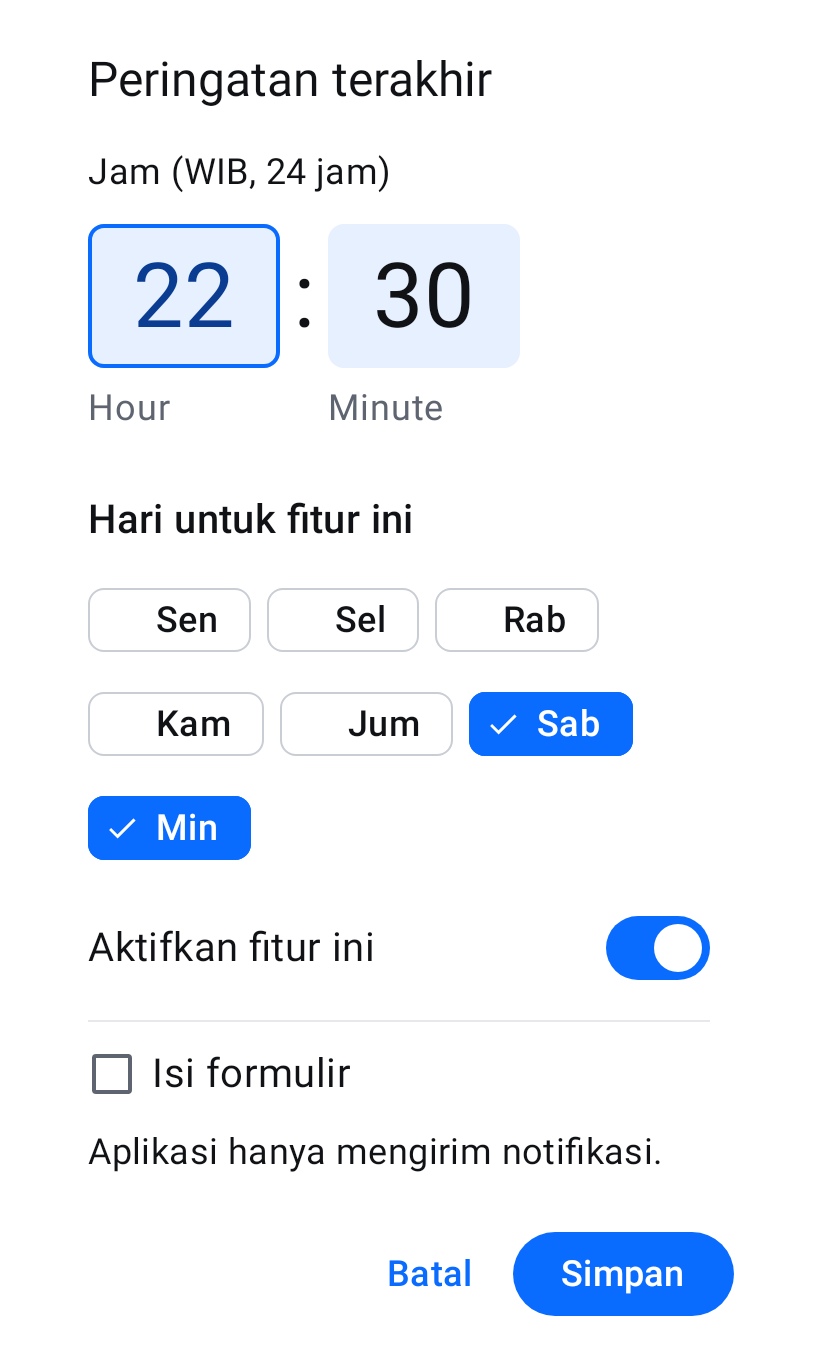
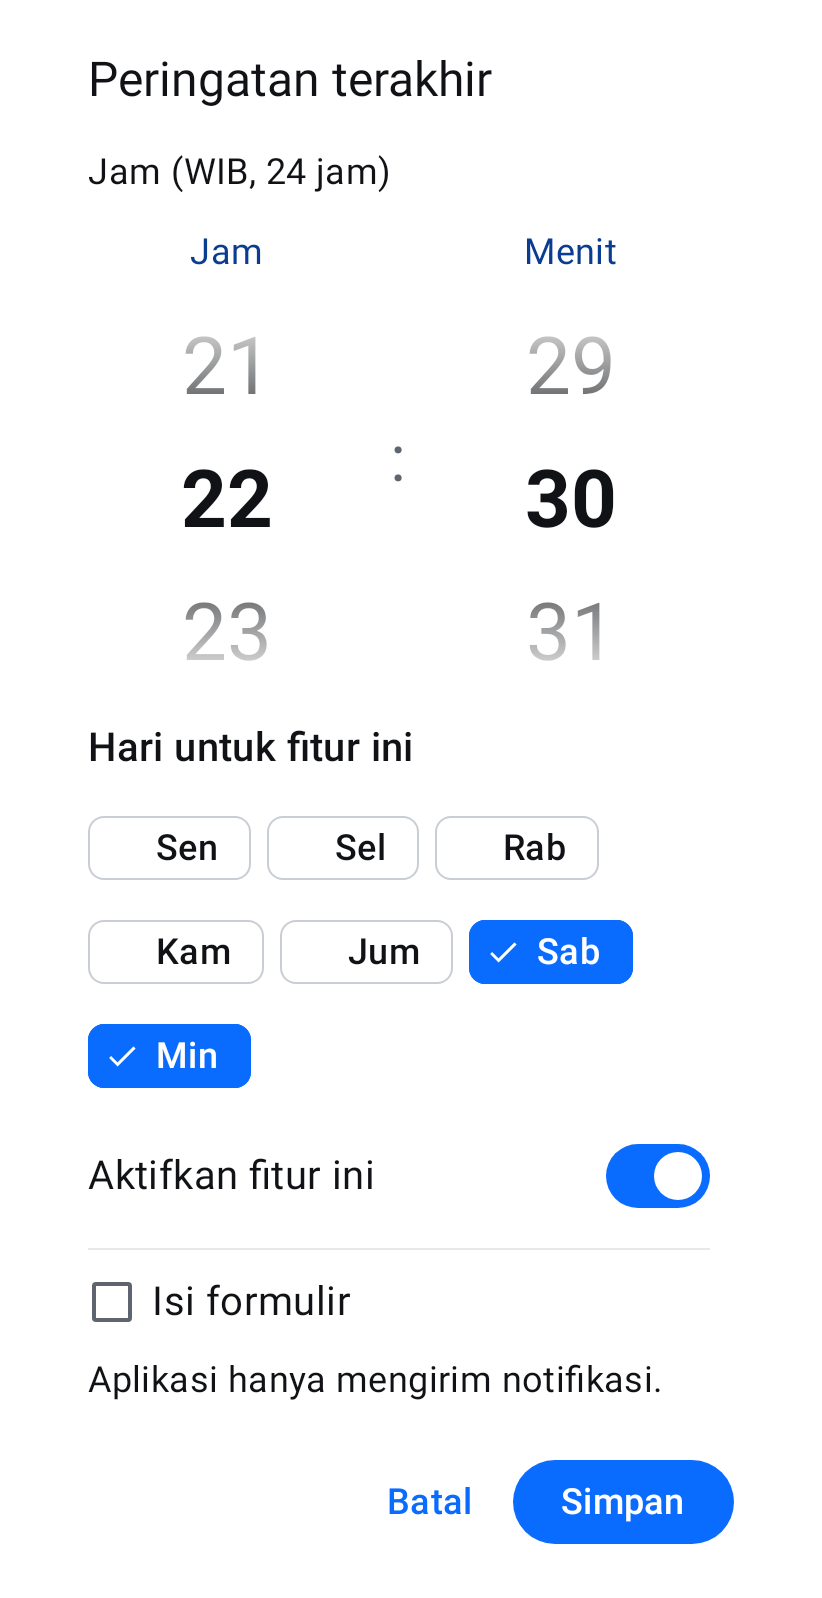
Improve preview navigation and inline time wheel editing

diff --git a/app/src/main/java/id/ohmymonev/android/ui/PratinjauCard.kt b/app/src/main/java/id/ohmymonev/android/ui/PratinjauCard.kt
@@ -9,6 +9,20 @@ import androidx.compose.foundation.layout.FlowRow
 import androidx.compose.foundation.layout.fillMaxWidth
 import androidx.compose.foundation.layout.padding
 import androidx.compose.foundation.shape.RoundedCornerShape
+import androidx.compose.foundation.layout.fillMaxSize
+import androidx.compose.foundation.layout.safeDrawingPadding
+import androidx.compose.foundation.rememberScrollState
+import androidx.compose.foundation.verticalScroll
+import androidx.compose.material3.Button
+import androidx.compose.material3.AlertDialog
+import androidx.compose.material3.Icon
+import androidx.compose.material3.IconButton
+import androidx.compose.material.icons.Icons
+import androidx.compose.material.icons.automirrored.filled.ArrowBack
+import androidx.compose.ui.window.Dialog
+import androidx.compose.ui.window.DialogProperties
+import androidx.compose.ui.text.style.TextOverflow
+import androidx.compose.material3.FilterChip
 import androidx.compose.material3.MaterialTheme
 import androidx.compose.material3.Surface
 import androidx.compose.material3.Text
@@ -21,7 +35,6 @@ import androidx.compose.runtime.setValue
 import androidx.compose.ui.Modifier
 import androidx.compose.ui.platform.testTag
 import androidx.compose.ui.text.font.FontWeight
-import androidx.compose.ui.text.style.TextOverflow
 import androidx.compose.ui.unit.dp
 import androidx.compose.ui.unit.sp
 import id.ohmymonev.android.engine.PreparedReport
@@ -35,8 +48,7 @@ internal fun PratinjauCard(
     holiday: Boolean = false,
     modifier: Modifier = Modifier,
 ) {
-    var detail by remember(prepared) { mutableStateOf<String?>(null) }
-    var showIssues by remember(prepared) { mutableStateOf(false) }
+    var open by remember(prepared) { mutableStateOf(false) }
     val source = prepared?.sourceReport
     val written = prepared?.written
     val hasText = source != null || written != null
@@ -52,7 +64,6 @@ internal fun PratinjauCard(
                     color = MaterialTheme.colorScheme.secondary)
                 TextButton(onClick = onRefresh, enabled = !loading) { Text("Perbarui", fontSize = 18.sp) }
             }
-            if (holiday) PreviewBadge("Hari libur")
             when {
                 loading -> Text("Mencari laporan Hadir…", fontSize = 20.sp, lineHeight = 28.sp)
                 prepared == null -> Text("Login untuk melihat laporan.", fontSize = 20.sp, lineHeight = 28.sp)
@@ -63,51 +74,84 @@ internal fun PratinjauCard(
                     if (prepared.sourceUnavailable) Text(prepared.issues.joinToString("\n"), fontSize = 18.sp, lineHeight = 26.sp)
                 }
                 else -> {
-                    FlowRow(horizontalArrangement = Arrangement.spacedBy(8.dp), verticalArrangement = Arrangement.spacedBy(8.dp)) {
-                        PreviewBadge(if (source != null) "Hadir · ${source.label()}" else "Tulisan hari ini")
-                        PreviewBadge(if (prepared.issues.isEmpty()) "Draf siap" else "Draf perlu diperiksa", attention = prepared.issues.isNotEmpty())
-                    }
+                    Text(
+                        (if (source != null) "Hadir · ${source.label()}" else "Tulisan hari ini") + if (holiday) " · Hari libur" else "",
+                        fontSize = 18.sp, lineHeight = 26.sp, color = MaterialTheme.colorScheme.onSurfaceVariant,
+                    )
                     Text(source?.aktivitas ?: written!!.aktivitas, fontSize = 20.sp, lineHeight = 28.sp,
                         maxLines = 3, overflow = TextOverflow.Ellipsis)
-                    if (prepared.issues.isNotEmpty()) {
-                        Text("Perbaiki tulisan hari ini.", fontSize = 18.sp, lineHeight = 26.sp)
-                        TextButton(onClick = { showIssues = !showIssues }) {
-                            Text(if (showIssues) "Tutup rincian" else "Rincian", fontSize = 18.sp)
-                        }
-                        if (showIssues) Text(prepared.issues.joinToString("\n"), fontSize = 20.sp, lineHeight = 28.sp)
-                    }
-                    FlowRow(horizontalArrangement = Arrangement.spacedBy(8.dp)) {
-                        TextButton(onClick = { detail = if (detail == "source") null else "source" }) {
-                            Text(if (detail == "source") "Tutup laporan" else "Lihat laporan", fontSize = 18.sp)
-                        }
-                        if (prepared.draft != null) TextButton(onClick = { detail = if (detail == "draft") null else "draft" }) {
-                            Text(if (detail == "draft") "Tutup draf" else "Lihat draf", fontSize = 18.sp)
-                        }
-                    }
-                    if (detail != null) {
-                        val text = if (detail == "source") source?.report() ?: written!!.let { ReportDraft(it.aktivitas, it.pelajaran, it.kendala) }
-                            else prepared.draft!!.let { ReportDraft(it.aktivitas, it.pelajaran, it.kendala) }
-                        ReportDetails(text, if (detail == "source") "Laporan sumber" else "Draf hari ini")
+                    Button(onClick = { open = true }, modifier = Modifier.fillMaxWidth()) {
+                        Text("Buka pratinjau", fontSize = 18.sp)
                     }
                 }
             }
         }
     }
+    if (open && prepared != null) Dialog(onDismissRequest = { open = false },
+        properties = DialogProperties(usePlatformDefaultWidth = false, decorFitsSystemWindows = false)) {
+        PreviewPage(prepared, onBack = { open = false })
+    }
+
 }
 
 @Composable
-private fun PreviewBadge(label: String, attention: Boolean = false) {
-    Surface(color = if (attention) MaterialTheme.colorScheme.tertiaryContainer else MaterialTheme.colorScheme.primaryContainer,
-        contentColor = if (attention) MaterialTheme.colorScheme.onTertiaryContainer else MaterialTheme.colorScheme.onPrimaryContainer,
-        shape = RoundedCornerShape(10.dp)) {
-        Text(label, Modifier.padding(horizontal = 12.dp, vertical = 6.dp), fontSize = 18.sp, lineHeight = 26.sp)
+internal fun PreviewPage(prepared: PreparedReport, onBack: () -> Unit) {
+    var showDraft by remember(prepared) { mutableStateOf(false) }
+    var showCause by remember { mutableStateOf(false) }
+    val scroll = rememberScrollState()
+    val source = prepared.sourceReport
+    val written = prepared.written
+    Surface(Modifier.fillMaxSize().testTag("preview-page"), color = MaterialTheme.colorScheme.surface) {
+        Column(Modifier.fillMaxSize().safeDrawingPadding()) {
+            Row(Modifier.fillMaxWidth().padding(horizontal = 8.dp, vertical = 8.dp),
+                verticalAlignment = androidx.compose.ui.Alignment.CenterVertically) {
+                IconButton(onClick = onBack) { Icon(Icons.AutoMirrored.Filled.ArrowBack, contentDescription = "Kembali") }
+                Text("Pratinjau laporan", fontSize = 22.sp, fontWeight = FontWeight.SemiBold,
+                    color = MaterialTheme.colorScheme.secondary)
+            }
+            Column(Modifier.weight(1f).scrollIndicator(scroll).verticalScroll(scroll).padding(20.dp),
+                verticalArrangement = Arrangement.spacedBy(20.dp)) {
+                Text(if (source != null) "Hadir · ${source.label()}" else "Tulisan hari ini", fontSize = 18.sp)
+                if (prepared.issues.isNotEmpty()) {
+                    Surface(color = MaterialTheme.colorScheme.tertiaryContainer,
+                        contentColor = MaterialTheme.colorScheme.onTertiaryContainer, shape = RoundedCornerShape(12.dp)) {
+                        Column(Modifier.padding(12.dp)) {
+                            Text("Draf otomatis belum siap", fontSize = 18.sp)
+                            TextButton(onClick = { showCause = true }) { Text("Lihat penyebab", fontSize = 18.sp) }
+                        }
+                    }
+                }
+                if (prepared.draft != null && prepared.issues.isEmpty() && source != null) {
+                    FlowRow(horizontalArrangement = Arrangement.spacedBy(8.dp)) {
+                        FilterChip(selected = !showDraft, onClick = { showDraft = false }, label = { Text("Sumber", fontSize = 18.sp) })
+                        FilterChip(selected = showDraft, onClick = { showDraft = true }, label = { Text("Draf otomatis", fontSize = 18.sp) })
+                    }
+                }
+                val text = if (showDraft) prepared.draft!!.let { ReportDraft(it.aktivitas, it.pelajaran, it.kendala) }
+                    else source?.report() ?: written!!.let { ReportDraft(it.aktivitas, it.pelajaran, it.kendala) }
+                ReportDetails(text, "")
+            }
+        }
     }
+    if (showCause) AlertDialog(onDismissRequest = { showCause = false },
+        title = { Text("Mengapa draf belum siap?") },
+        text = { Text(previewIssueSummary(prepared.issues), fontSize = 20.sp, lineHeight = 28.sp) },
+        confirmButton = { TextButton(onClick = { showCause = false }) { Text("Mengerti") } })
 }
+
+internal fun previewIssueSummary(issues: List<String>): String = issues.flatMap { it.lines() }
+    .filter { it.isNotBlank() && it != "Periksa aktivitas berikut:" }
+    .map { line ->
+        val number = Regex("^Butir (\\d+):").find(line)?.groupValues?.get(1)
+        if (number != null) "Butir $number belum dapat diolah otomatis."
+        else if (line.length > 160) "Format sumber belum sesuai aturan draf otomatis."
+        else line
+    }.distinct().take(3).joinToString("\n")
 
 @Composable
 internal fun ReportDetails(draft: ReportDraft, title: String) {
     Column(Modifier.fillMaxWidth().testTag("report-details"), verticalArrangement = Arrangement.spacedBy(20.dp)) {
-        Text(title, fontSize = 22.sp, fontWeight = FontWeight.SemiBold, color = MaterialTheme.colorScheme.secondary)
+        if (title.isNotEmpty()) Text(title, fontSize = 22.sp, fontWeight = FontWeight.SemiBold, color = MaterialTheme.colorScheme.secondary)
         for ((label, text) in listOf("Aktivitas" to draft.aktivitas, "Pelajaran" to draft.pelajaran, "Kendala" to draft.kendala)) {
             Column(verticalArrangement = Arrangement.spacedBy(8.dp)) {
                 Text(label, fontSize = 18.sp, fontWeight = FontWeight.SemiBold, color = MaterialTheme.colorScheme.secondary)

diff --git a/app/src/test/java/id/ohmymonev/android/UiRenderTest.kt b/app/src/test/java/id/ohmymonev/android/UiRenderTest.kt
@@ -20,6 +20,7 @@ import androidx.compose.runtime.Composable
 import androidx.compose.runtime.CompositionLocalProvider
 import androidx.compose.ui.Modifier
 import androidx.compose.ui.platform.LocalDensity
+import androidx.compose.ui.test.assertCountEquals
 import androidx.compose.ui.test.assertIsNotEnabled
 import androidx.compose.ui.test.assertIsEnabled
 import androidx.compose.ui.test.isRoot
@@ -90,6 +91,11 @@ class UiRenderTest {
             compose.onAllNodesWithText(readyText, substring = true).fetchSemanticsNodes().isNotEmpty()
         }
         compose.waitForIdle()
+        if (captureTag == "automatic-preview") {
+            for (label in listOf("Rincian", "Tutup rincian", "Tutup laporan", "Lihat laporan")) {
+                compose.onAllNodesWithText(label).assertCountEquals(0)
+            }
+        }
         if (!masterEnabled) {
             compose.onNodeWithTag("master-toggle").assertIsEnabled()
             for (title in listOf("Pengingat", "Pengisian", "Peringatan terakhir")) {
@@ -171,10 +177,12 @@ class UiRenderTest {
             issues, sourceReport = source, sourceReadComplete = true)
     }
 
-    @Test fun automaticPreviewReady() = capture("forge-preview-ready", "Pratinjau", captureTag = "automatic-preview") {
+    @Test @Config(qualifiers = "w411dp-h1800dp-xhdpi")
+    fun automaticPreviewReady() = capture("forge-preview-ready", "Pratinjau", captureTag = "automatic-preview") {
         PratinjauCard(preview(), false, {})
     }
-    @Test fun sourceSurvivesFailedGeneration() = capture("forge-preview-needs-edit", "Draf perlu diperiksa", captureTag = "automatic-preview") {
+    @Test @Config(qualifiers = "w411dp-h1800dp-xhdpi")
+    fun sourceSurvivesFailedGeneration() = capture("forge-preview-needs-edit", "Buka pratinjau", captureTag = "automatic-preview") {
         PratinjauCard(preview(listOf("Butir 1: Membikin ringkasan data.")), false, {})
     }
     @Test fun missingSource() = capture("forge-preview-empty", "Belum ada laporan Hadir", captureTag = "automatic-preview") {
@@ -185,7 +193,7 @@ class UiRenderTest {
         PratinjauCard(id.ohmymonev.android.engine.PreparedReport("2026-11-08", "participant", "", "", null,
             listOf("Situs belum dapat dihubungi. Coba Perbarui kembali."), sourceUnavailable = true), false, {})
     }
-    @Test @Config(qualifiers = "w360dp-h1100dp-xhdpi")
+    @Test @Config(qualifiers = "w360dp-h2200dp-xhdpi")
     fun previewLargeText() = capture("forge-preview-large-text", "Pratinjau", 1.3f, captureTag = "automatic-preview") {
         PratinjauCard(preview(), false, {}, holiday = true)
     }
@@ -208,7 +216,8 @@ class UiRenderTest {
         id.ohmymonev.android.ui.ScheduleStatus(
             id.ohmymonev.android.schedule.AlarmScheduler.ArmedState(false, null, "Semua fitur nonaktif"), {})
     }
-    @Test fun holidayPreview() = capture("forge-preview-holiday", "Hari libur", captureTag = "automatic-preview") {
+    @Test @Config(qualifiers = "w411dp-h1800dp-xhdpi")
+    fun holidayPreview() = capture("forge-preview-holiday", "Hari libur", captureTag = "automatic-preview") {
         PratinjauCard(preview(), false, {}, holiday = true)
     }
     @Test @Config(qualifiers = "w360dp-h3200dp-xhdpi")
@@ -225,4 +234,20 @@ class UiRenderTest {
     @Test fun scrollbarTop() = capture("forge-scrollbar-top", "Baris laporan") { ScrollFixture(0) }
     @Test fun scrollbarMiddle() = capture("forge-scrollbar-middle", "Baris laporan") { ScrollFixture(600) }
     @Test fun scrollbarBottom() = capture("forge-scrollbar-bottom", "Baris laporan") { ScrollFixture(100000) }
+
+    @Test @Config(qualifiers = "w411dp-h1800dp-xhdpi")
+    fun paragraphSourceIsVisibleOnceWithoutOpeningAnything() {
+        val paragraph = "Mengikuti apel akhir minggu. Menjadwalkan pengolahan otomatis pada Windows agar pemeriksaan bulanan berjalan sesuai jadwal. Memperbarui panduan operasi agar sesuai kondisi terbaru."
+        val original = preview(listOf("Butir 1: $paragraph"))
+        capture("forge-preview-paragraph", "Pratinjau laporan", captureTag = "preview-page") {
+            id.ohmymonev.android.ui.PreviewPage(original.copy(sourceReport = original.sourceReport!!.copy(aktivitas = paragraph)), {})
+        }
+        compose.onAllNodesWithText(paragraph).assertCountEquals(1)
+        compose.onAllNodesWithText("Butir 1: $paragraph").assertCountEquals(0)
+        org.junit.Assert.assertEquals("Butir 1 belum dapat diolah otomatis.", id.ohmymonev.android.ui.previewIssueSummary(listOf("Periksa aktivitas berikut:\nButir 1: $paragraph")))
+    }
+
+    @Test fun separateTimeTyping() = capture("forge-time-typing", "Menit") {
+        id.ohmymonev.android.ui.TimeWheels("05", "00", {}, {})
+    }
 }

diff --git a/app/src/main/java/id/ohmymonev/android/ui/TimeWheels.kt b/app/src/main/java/id/ohmymonev/android/ui/TimeWheels.kt
@@ -1,0 +1,81 @@
+package id.ohmymonev.android.ui
+
+import android.os.Build
+import android.view.ViewGroup
+import android.widget.NumberPicker
+import androidx.compose.foundation.layout.*
+import androidx.compose.material3.*
+import androidx.compose.runtime.Composable
+import androidx.compose.ui.Alignment
+import androidx.compose.ui.Modifier
+import androidx.compose.ui.graphics.toArgb
+import androidx.compose.ui.platform.LocalDensity
+import androidx.compose.ui.unit.dp
+import androidx.compose.ui.unit.sp
+import androidx.compose.ui.viewinterop.AndroidView
+import java.time.LocalTime
+
+internal fun parseTimeParts(hour: String, minute: String): LocalTime? {
+    if (hour.length !in 1..2 || minute.length !in 1..2 ||
+        !hour.all { it in '0'..'9' } || !minute.all { it in '0'..'9' }) return null
+    val h = hour.toInt(); val m = minute.toInt()
+    return if (h in 0..23 && m in 0..59) LocalTime.of(h, m) else null
+}
+
+@Composable
+internal fun TimeWheels(hour: String, minute: String, onHour: (String) -> Unit, onMinute: (String) -> Unit) {
+    Row(Modifier.fillMaxWidth(), verticalAlignment = Alignment.CenterVertically,
+        horizontalArrangement = Arrangement.spacedBy(12.dp)) {
+        TimePart("Jam", hour, 23, onHour, Modifier.weight(1f))
+        Text(":", fontSize = 32.sp)
+        TimePart("Menit", minute, 59, onMinute, Modifier.weight(1f))
+    }
+}
+
+@Composable
+private fun TimePart(label: String, value: String, max: Int, onChange: (String) -> Unit, modifier: Modifier) {
+    val textColor = MaterialTheme.colorScheme.onSurface.toArgb()
+    val textSize = with(LocalDensity.current) { 40.sp.toPx() }
+    Column(modifier, horizontalAlignment = Alignment.CenterHorizontally, verticalArrangement = Arrangement.spacedBy(8.dp)) {
+        Text(label, fontSize = 18.sp, color = MaterialTheme.colorScheme.secondary)
+        AndroidView(modifier = Modifier.fillMaxWidth().height(200.dp), factory = { context ->
+            NumberPicker(context).apply {
+                minValue = 0; maxValue = max; wrapSelectorWheel = true
+                this.value = (value.toIntOrNull() ?: 0).coerceIn(0, max)
+                descendantFocusability = ViewGroup.FOCUS_BEFORE_DESCENDANTS
+                isFocusableInTouchMode = true
+                contentDescription = label
+                setFormatter { it.toString().padStart(2, '0') }
+                setOnValueChangedListener { _, _, next -> onChange(next.toString().padStart(2, '0')) }
+                setOnTouchListener { view, event ->
+                    if (event.actionMasked == android.view.MotionEvent.ACTION_DOWN)
+                        view.parent?.requestDisallowInterceptTouchEvent(true)
+                    if (event.actionMasked == android.view.MotionEvent.ACTION_UP || event.actionMasked == android.view.MotionEvent.ACTION_CANCEL)
+                        view.parent?.requestDisallowInterceptTouchEvent(false)
+                    false
+                }
+                for (i in 0 until childCount) {
+                    (getChildAt(i) as? android.widget.EditText)?.apply {
+                        setSelectAllOnFocus(true)
+                        setTypeface(typeface, android.graphics.Typeface.BOLD)
+                        inputType = android.text.InputType.TYPE_CLASS_NUMBER
+                        imeOptions = if (max == 23) android.view.inputmethod.EditorInfo.IME_ACTION_NEXT else android.view.inputmethod.EditorInfo.IME_ACTION_DONE
+                        addTextChangedListener(object : android.text.TextWatcher {
+                            override fun beforeTextChanged(s: CharSequence?, start: Int, count: Int, after: Int) = Unit
+                            override fun onTextChanged(s: CharSequence?, start: Int, before: Int, count: Int) { onChange(s?.toString().orEmpty()) }
+                            override fun afterTextChanged(s: android.text.Editable?) = Unit
+                        })
+                    }
+                }
+            }
+        }, update = { picker ->
+            val selected = (value.toIntOrNull() ?: 0).coerceIn(0, max)
+            if (!picker.hasFocus() && picker.value != selected) picker.value = selected
+            if (Build.VERSION.SDK_INT >= 29) {
+                picker.textColor = textColor
+                picker.textSize = textSize
+                picker.selectionDividerHeight = 0
+            }
+        })
+    }
+}

diff --git a/app/src/main/java/id/ohmymonev/android/ui/ScheduleTab.kt b/app/src/main/java/id/ohmymonev/android/ui/ScheduleTab.kt
@@ -321,11 +321,10 @@ internal fun AlarmEditor(
     var days by remember { mutableStateOf(initialDays) }
     var action by remember { mutableStateOf(initialAction ?: ScheduleSettings.Policy.REMIND_ONLY) }
     val editorScrollState = rememberScrollState()
-    val timeState = androidx.compose.material3.rememberTimePickerState(
-        initialHour = initialTime.hour,
-        initialMinute = initialTime.minute,
-        is24Hour = true,
-    )
+    var hour by remember { mutableStateOf(initialTime.hour.toString().padStart(2, '0')) }
+    var minute by remember { mutableStateOf(initialTime.minute.toString().padStart(2, '0')) }
+    val editorView = androidx.compose.ui.platform.LocalView.current
+    val selectedTime = parseTimeParts(hour, minute)
     AlertDialog(
         properties = androidx.compose.ui.window.DialogProperties(usePlatformDefaultWidth = false),
         modifier = Modifier.fillMaxWidth().padding(horizontal = 20.dp),
@@ -337,7 +336,7 @@ internal fun AlarmEditor(
                 verticalArrangement = Arrangement.spacedBy(12.dp),
             ) {
                 Text("Jam (WIB, 24 jam)", fontSize = 18.sp, color = MaterialTheme.colorScheme.onSurface)
-                androidx.compose.material3.TimeInput(state = timeState)
+                TimeWheels(hour, minute, { hour = it }, { minute = it })
                 Text("Hari untuk fitur ini", fontSize = 20.sp, fontWeight = FontWeight.SemiBold, color = MaterialTheme.colorScheme.onSurface)
                 DayChipsRow(days) { day -> days = if (day in days) days - day else days + day }
                 if (days.isEmpty()) Text("Pilih minimal satu hari.", fontSize = 18.sp, color = MaterialTheme.colorScheme.onSurface)
@@ -368,8 +367,8 @@ internal fun AlarmEditor(
         },
         confirmButton = {
             Button(
-                enabled = days.isNotEmpty(),
-                onClick = { onSave(LocalTime.of(timeState.hour, timeState.minute), enabled, days, action) },
+                enabled = days.isNotEmpty() && selectedTime != null,
+                onClick = { editorView.clearFocus(); parseTimeParts(hour, minute)?.let { onSave(it, enabled, days, action) } },
             ) { Text("Simpan", fontSize = 18.sp) }
         },
         dismissButton = { TextButton(onClick = onDismiss) { Text("Batal", fontSize = 18.sp) } },

diff --git a/app/src/test/java/id/ohmymonev/android/ui/TimeWheelsTest.kt b/app/src/test/java/id/ohmymonev/android/ui/TimeWheelsTest.kt
@@ -1,0 +1,21 @@
+package id.ohmymonev.android.ui
+
+import org.junit.Assert.*
+import org.junit.Test
+import java.time.LocalTime
+
+class TimeWheelsTest {
+    @Test fun validPartsUse24HourTime() {
+        assertEquals(LocalTime.MIDNIGHT, parseTimeParts("00", "00"))
+        assertEquals(LocalTime.of(23,59), parseTimeParts("23", "59"))
+        assertEquals(LocalTime.of(5,7), parseTimeParts("5", "7"))
+    }
+    @Test fun invalidOrIncompletePartsCannotBeSaved() {
+        for ((h,m) in listOf("" to "00", "12" to "", "24" to "00", "23" to "60", "-1" to "00", "aa" to "00", "123" to "00"))
+            assertNull(parseTimeParts(h,m))
+    }
+    @Test fun changingOnePartPreservesTheOther() {
+        assertEquals(LocalTime.of(5,45), parseTimeParts("05", "45"))
+        assertEquals(LocalTime.of(20,7), parseTimeParts("20", "07"))
+    }
+}
